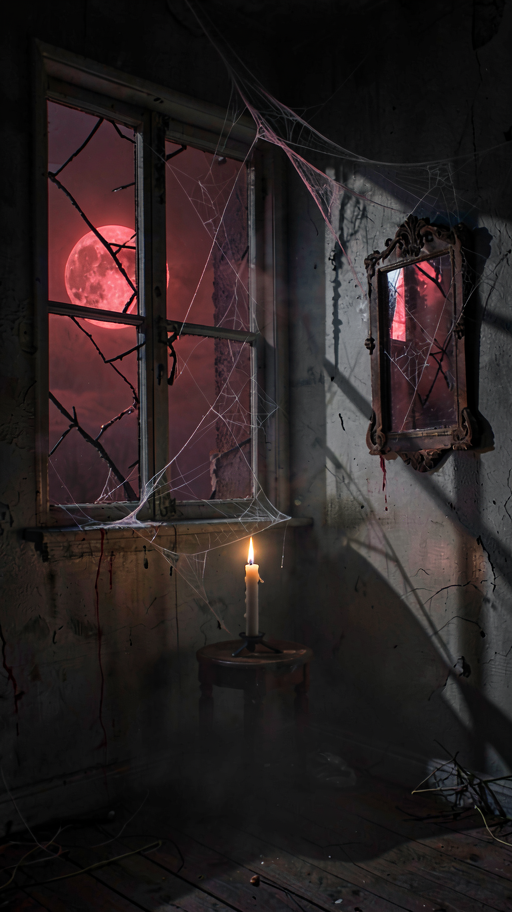
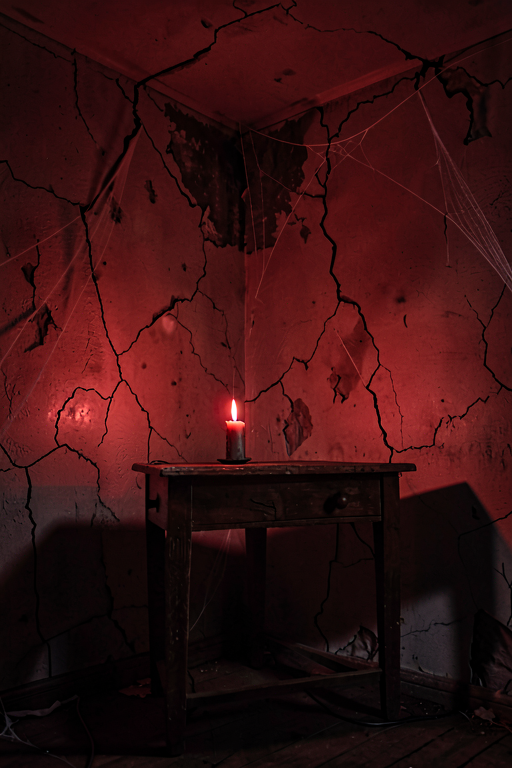
emeraldplace: fix room backgrounds, panorama, and scaling
- Regenerate outside_day.png without baked-in window frame
- Regenerate unit66 (was a street scene, now moving-boxes room),
  unit67 (was dungeon portal, now purple LED occult bedroom),
  unit68 (had window with red moon, now windowless candlelit room)
- Fix window thumbnail: use background-size:cover with percentage
  offsets instead of fixed 2400px — scales correctly at all sizes
- Bump calendar/bed/computer tap targets slightly larger
- Add window sill ledge below room window zone
- Remove stale SVG comment from CSS

diff --git a/gms/2d/emeraldplace/style.css b/gms/2d/emeraldplace/style.css
@@ -473,11 +473,22 @@ html, body {
   border-radius: 3px;
 }
 
+/* Sill ledge below window */
+#zone-window::after {
+  content: "";
+  position: absolute;
+  bottom: -6px; left: -4%; right: -4%;
+  height: 6px;
+  background: linear-gradient(to bottom, #a08060, #8a6a48);
+  border-radius: 0 0 2px 2px;
+  z-index: 4;
+  pointer-events: none;
+}
+
 #room-win-thumb {
   position: absolute; inset: 0;
   background-image: url('images/outside_day.png');
-  background-size: 2400px auto;
-  background-position-y: 30%;
+  background-size: cover;
   background-repeat: no-repeat;
 }
 
@@ -508,20 +519,20 @@ html, body {
 
 /* ── CALENDAR zone ───────────────────────────────────────── */
 #zone-calendar {
-  left: 15.5%; top: 15.3%;
-  width: 11.5%; height: 8.6%;
+  left: 14%; top: 14%;
+  width: 13%; height: 10%;
 }
 
 /* ── BED zone (wall icon) ────────────────────────────────── */
 #zone-bed {
-  left: 15.5%; top: 25.5%;
-  width: 11.5%; height: 6%;
+  left: 14%; top: 26%;
+  width: 13%; height: 7.5%;
 }
 
 /* ── COMPUTER zone ───────────────────────────────────────── */
 #zone-computer {
-  left: 60%; top: 50%;
-  width: 30%; height: 13%;
+  left: 62%; top: 50%;
+  width: 26%; height: 12%;
 }
 
 /* ── Room number tag ─────────────────────────────────────── */
@@ -558,7 +569,6 @@ html, body {
 #outside-container {
   position: absolute;
   transition: transform 0.7s cubic-bezier(0.25,0.46,0.45,0.94);
-  /* outside.svg is 2400×400 — we scale height to fill the viewport */
   width: 2400px;
   height: 100%;
 }

diff --git a/gms/2d/emeraldplace/game.js b/gms/2d/emeraldplace/game.js
@@ -123,10 +123,13 @@ function showRoom() {
   // Per-unit background image
   document.getElementById("room-scene").style.backgroundImage =
     `url('images/unit${State.currentUnit}_bg.png')`;
-  // Window thumbnail: show outside panorama at this unit's horizontal offset
+  // Window thumbnail: show outside panorama at this unit's horizontal offset.
+  // outsideScrollX is in a 2400px conceptual space; convert to a percentage
+  // for use with background-size:cover so it scales with the element.
   const thumb = document.getElementById("room-win-thumb");
   if (thumb) {
-    thumb.style.backgroundPositionX = `-${unit.outsideScrollX}px`;
+    const pct = (unit.outsideScrollX / 2400) * 100;
+    thumb.style.backgroundPosition = `${pct}% 30%`;
   }
   // Room number tag
   const tag = document.getElementById("room-number-display");
